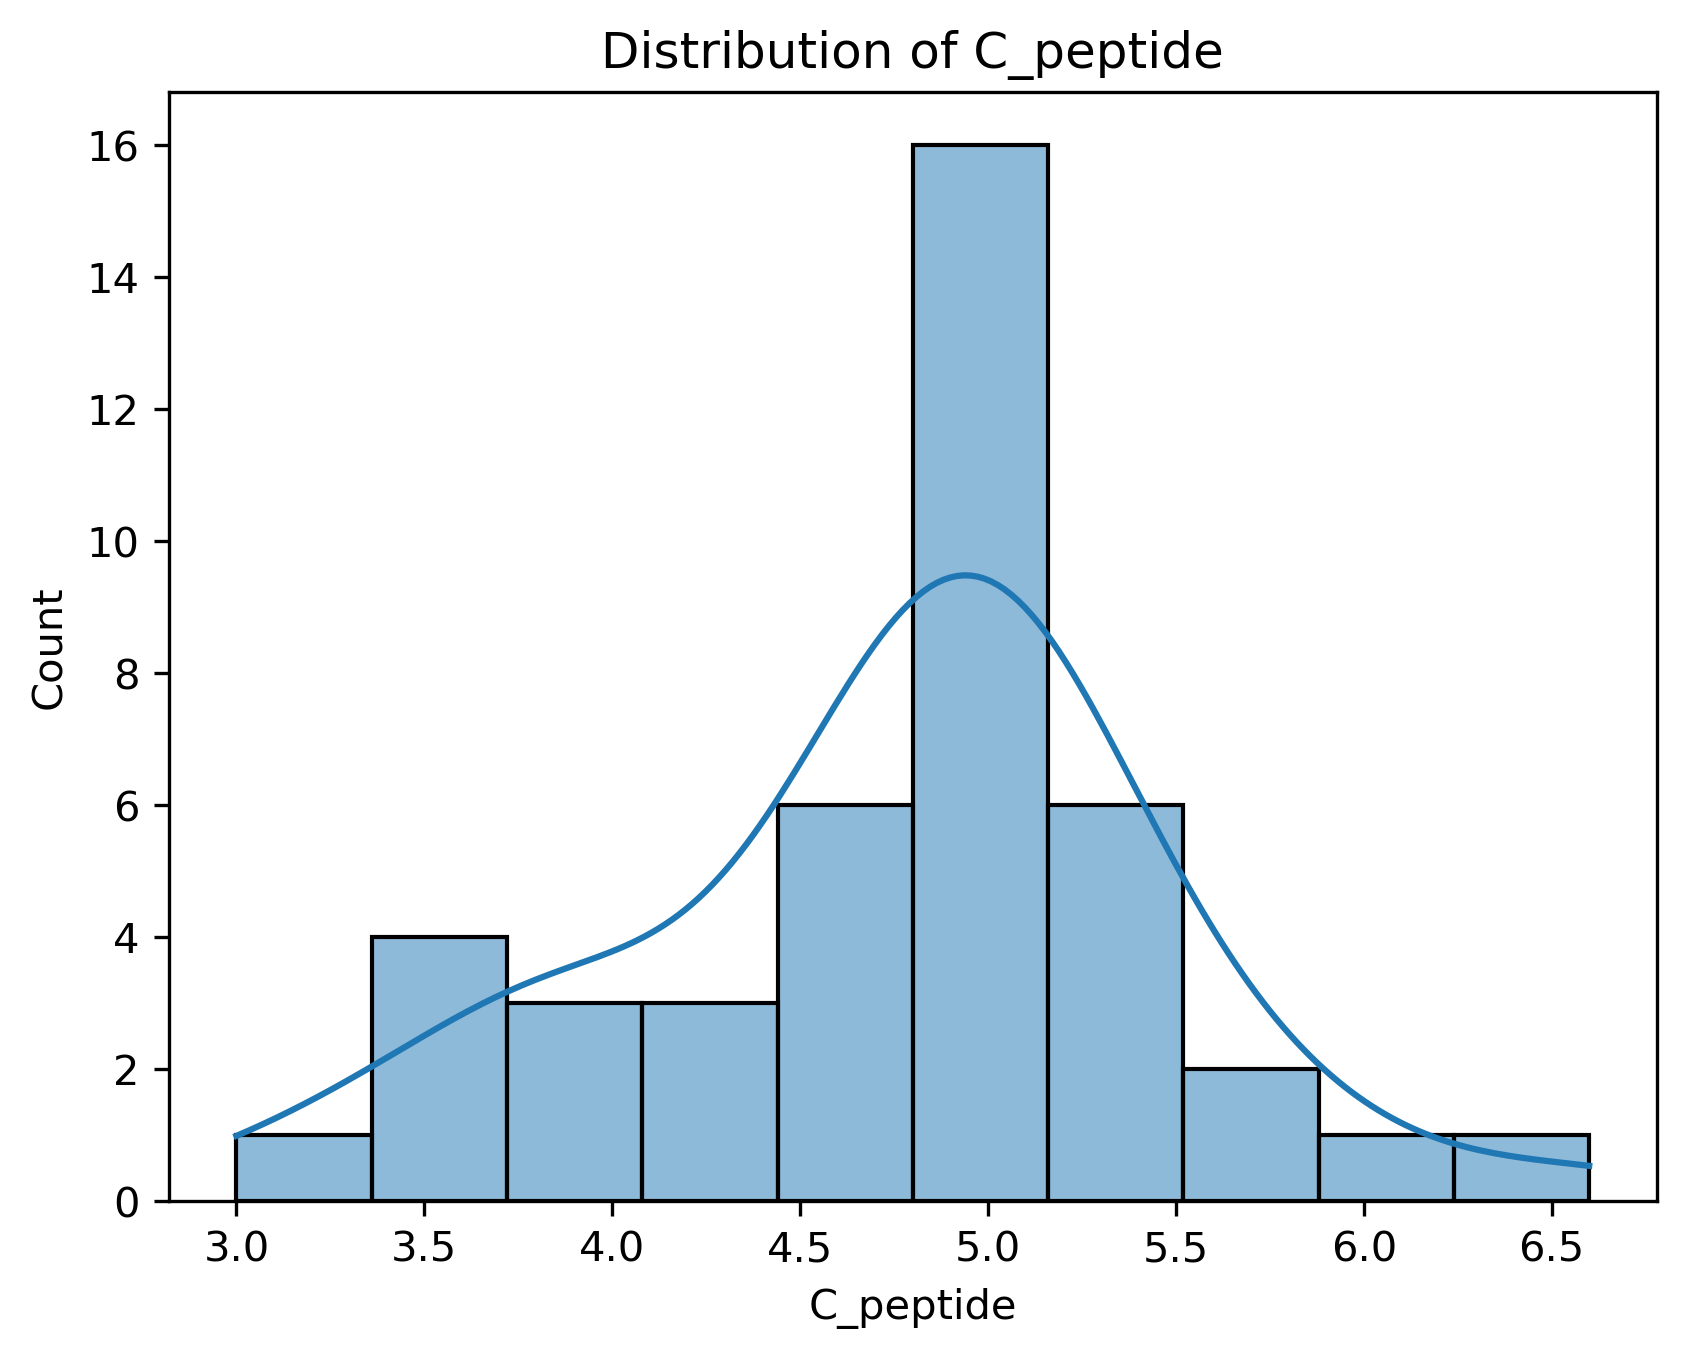
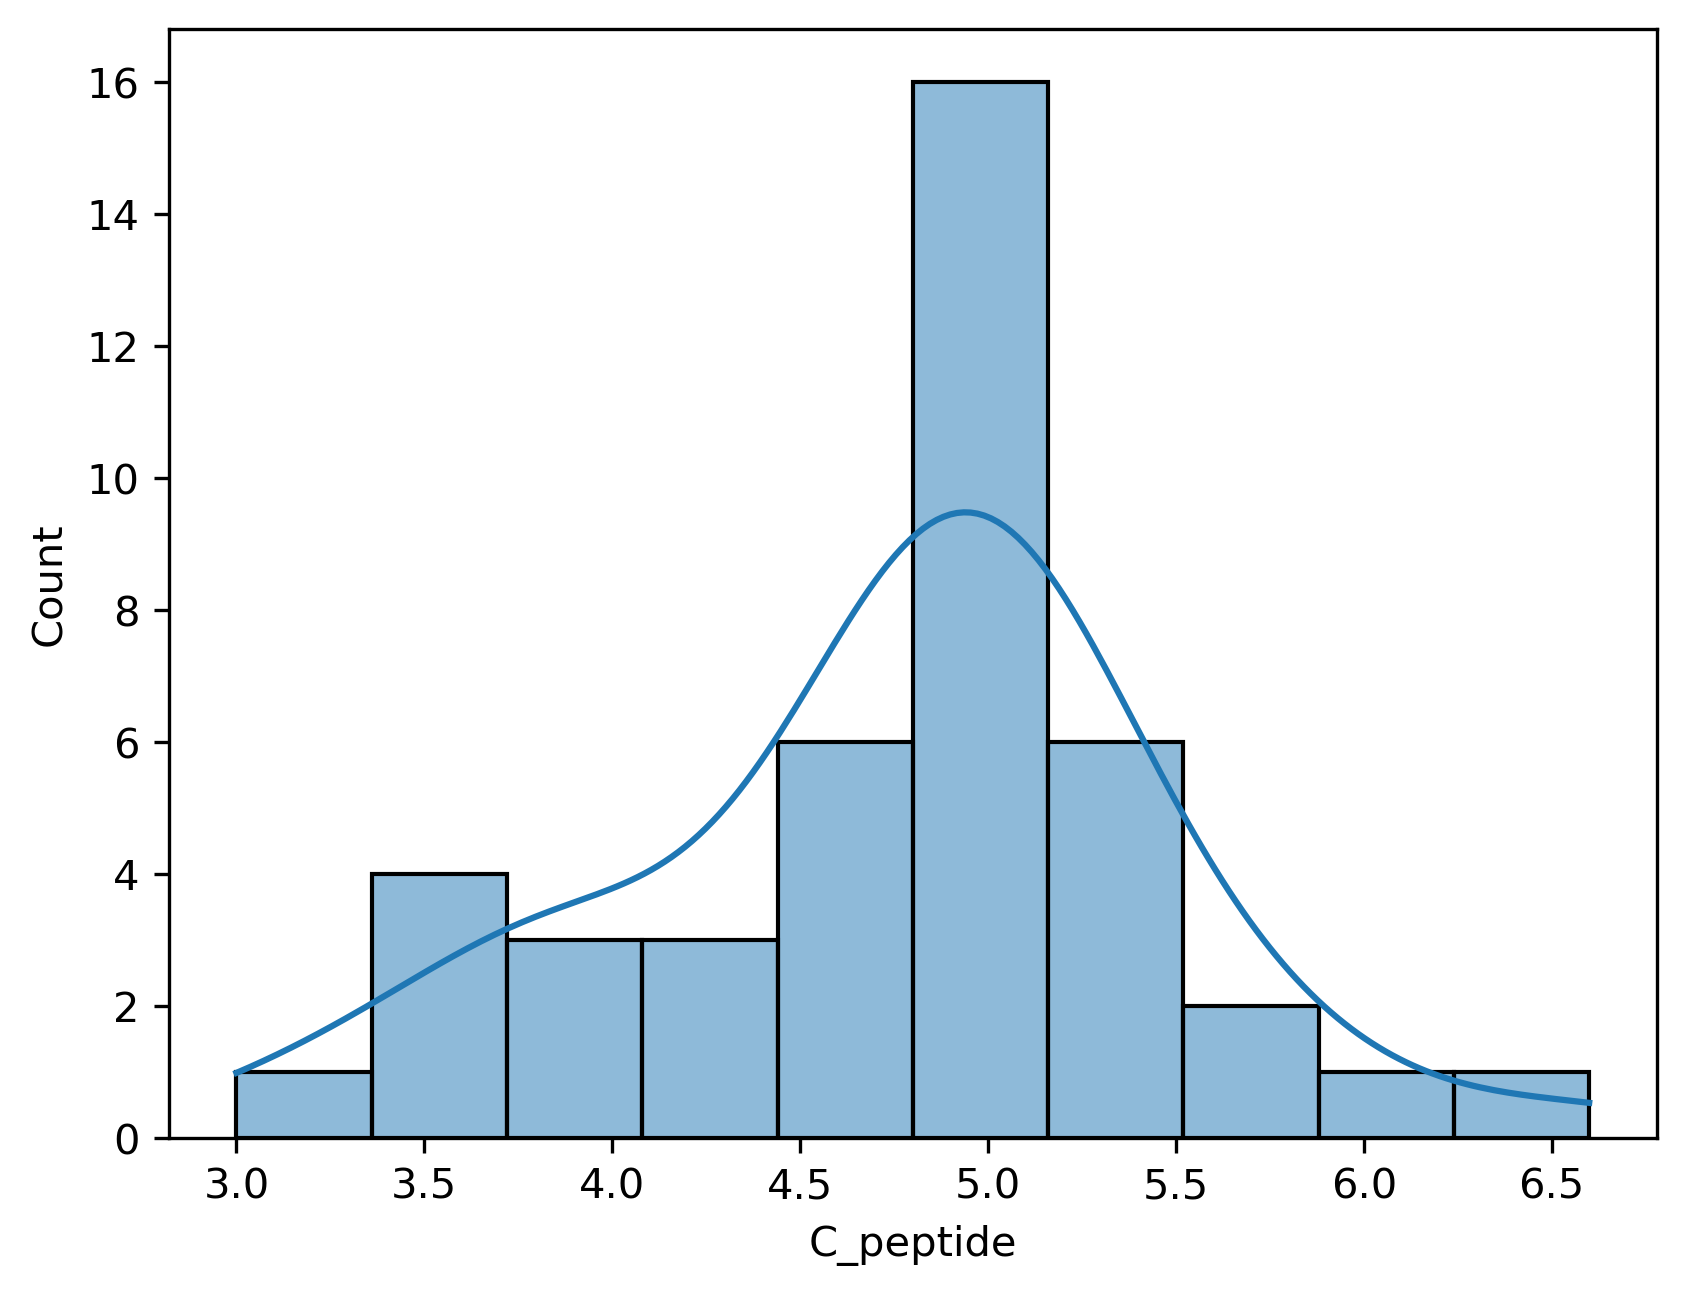
removed titles from plots

diff --git a/scripts/eda.py b/scripts/eda.py
@@ -31,7 +31,6 @@ def main(cleaned_data, plot_output, table_output):
 
     #target distribution
     sns.histplot(diabetes_df["C_peptide"], kde=True)
-    plt.title("Distribution of C_peptide")
     plot_path = os.path.join(plot_output, "c_peptide_distribution.png")
     plt.savefig(plot_path, dpi=300, bbox_inches="tight")
     plt.close()
@@ -53,7 +52,6 @@ def main(cleaned_data, plot_output, table_output):
     corr = diabetes_df.corr()
     plt.figure(figsize=(6, 4))
     sns.heatmap(corr, annot=True, cmap="coolwarm", center = 0, fmt=".2f")
-    plt.title("Correlation Heatmap")
 
     plot_path = os.path.join(plot_output, "correlation_heatmap.png")
     plt.savefig(plot_path, dpi=300, bbox_inches="tight")
